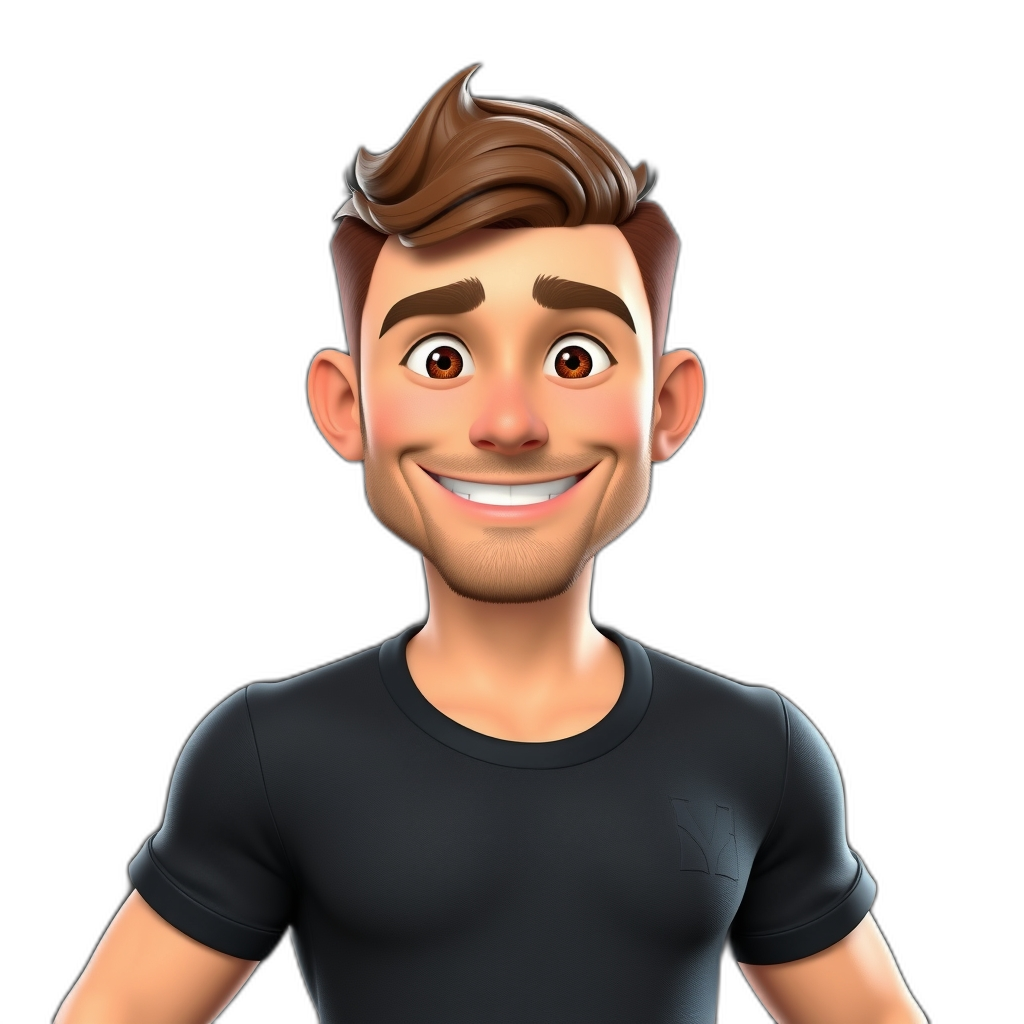
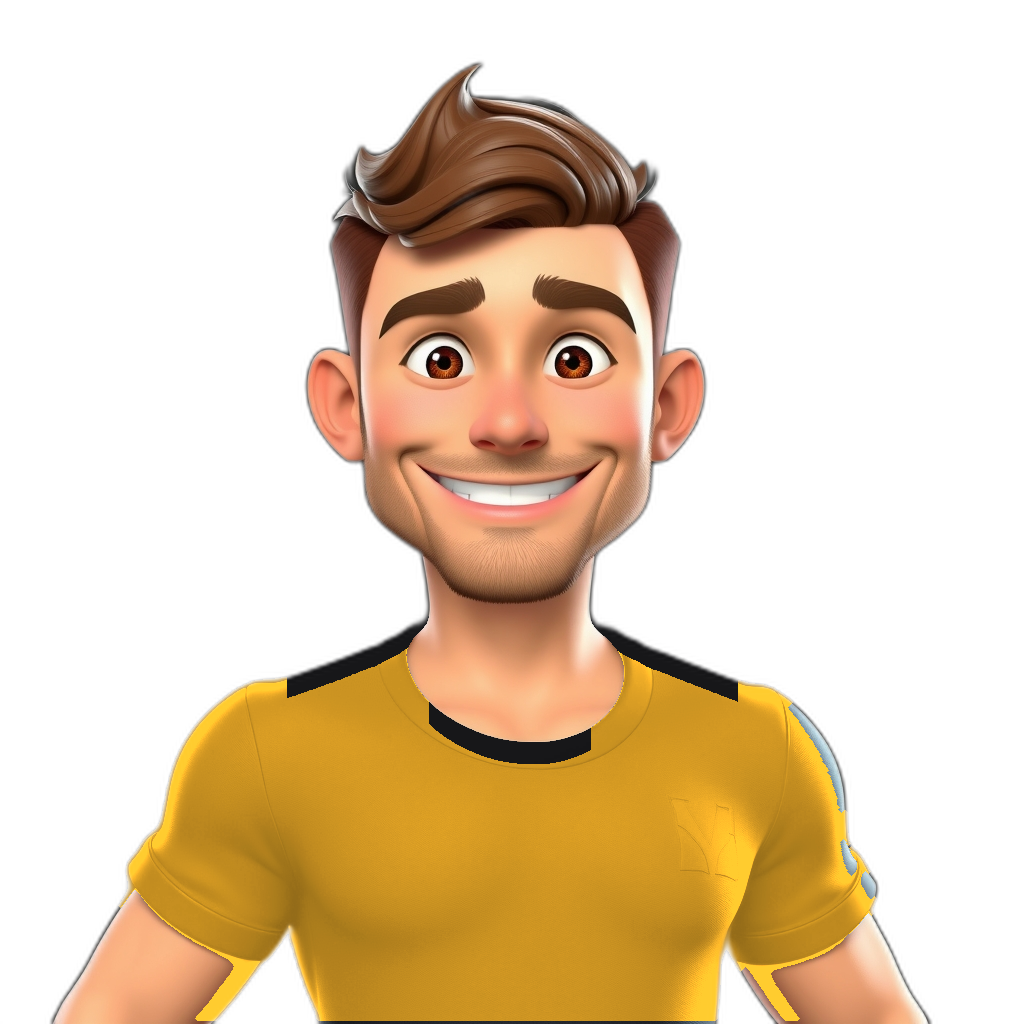
Cambridge: personagens sempre com a camisa do clube (avatares repintados + regra no playbook)
Claude-Session: https://claude.ai/code/session_016hpmpawhQKGKc7a1AfT2Rc

Changed region(s): [[0.125, 0.625, 0.875, 1.0]]

diff --git a/carreira/ep2/curto/make2.py b/carreira/ep2/curto/make2.py
@@ -483,8 +483,8 @@ def scene(img, sh, t):
         B("night"); img.alpha_composite(speedlines(W, H, t, 15))
         av = avatar("gildo", H * X(0.42, 0.72)); paste(img, av, X(cx, W * 0.32), H - av.height / 2 - X(H * 0.15, 0))
         paste(img, icon_pizza(W * X(0.3, 0.14)), X(cx + 250, W * 0.48), X(H * 0.45, cy), 1, 1, -8)
-        pop_text(img, "23:59", X(cx, W * 0.72), X(H * 0.17, 330), t, 0, 140, AMB, 10)
-        if t > wt(sh, "dormindo"): paste(img, chip("Zzz • TREINO ÀS 8H", 50, WHITE, (60, 60, 70)), X(cx, W * 0.72), X(H * 0.27, 520), 1, back((t - wt(sh, "dormindo")) / 0.3))
+        pop_text(img, "23:59", X(cx, W * 0.72), X(H * 0.2, 330), t, 0, 140, AMB, 10)
+        if t > wt(sh, "dormindo"): paste(img, chip("Zzz • TREINO ÀS 8H", 50, WHITE, (60, 60, 70)), X(cx, W * 0.72), X(H * 0.29, 520), 1, back((t - wt(sh, "dormindo")) / 0.3))
     elif sc == "jan_contract":
         B("dark"); p = panel(W * X(0.86, 0.5), 520, (245, 242, 232, 255), 14, (0, 0, 0, 0)); pd = ImageDraw.Draw(p)
         pd.text((50, 50), "CONTRATO PROFISSIONAL", font=font("blk", 52), fill=INK); pd.text((50, 150), "Gildo • 15 anos", font=font("bd", 46), fill=INK)
@@ -600,8 +600,8 @@ def scene(img, sh, t):
         else:
             B("amber"); img.alpha_composite(rays(W, H, cx, cy, t))
             av = avatar("gildo", H * X(0.45, 0.78)); paste(img, av, X(cx, W * 0.32), H - av.height / 2 - X(H * 0.12, 0))
-            paste(img, chip("OBRIGADO, MÃE", X(70, 80), INK, WHITE), X(cx, W * 0.32), X(H * 0.8, H * 0.82), 1, back((t - wt(sh, "obrigado")) / 0.3), rot=-3)
-            pop_text(img, "1º GOL PROFISSIONAL", X(cx, W * 0.7), X(H * 0.2, 300), t, tg, X(66, 80), WHITE, 8)
+            paste(img, chip("OBRIGADO, MÃE", X(70, 80), INK, WHITE), X(cx, W * 0.7), X(H * 0.3, 470), 1, back((t - wt(sh, "obrigado")) / 0.3), rot=-3)
+            pop_text(img, "1º GOL PROFISSIONAL", X(cx, W * 0.7), X(H * 0.21, 300), t, tg, X(66, 80), WHITE, 8)
     elif sc == "lg_kofi":
         B("blue"); card_in(img, "f_kofi", X(cx, W * 0.3), X(cy - 150, cy + 20), X(440, 420), t)
         if t > wt(sh, "titular"): paste(img, chip("TITULAR DO MEIO", 54, INK, AMB), X(cx, W * 0.68), X(H * 0.72, 380), 1, back((t - wt(sh, "titular")) / 0.3), rot=-3)

diff --git a/carreira/ep2/make2.py b/carreira/ep2/make2.py
@@ -483,8 +483,8 @@ def scene(img, sh, t):
         B("night"); img.alpha_composite(speedlines(W, H, t, 15))
         av = avatar("gildo", H * X(0.42, 0.72)); paste(img, av, X(cx, W * 0.32), H - av.height / 2 - X(H * 0.15, 0))
         paste(img, icon_pizza(W * X(0.3, 0.14)), X(cx + 250, W * 0.48), X(H * 0.45, cy), 1, 1, -8)
-        pop_text(img, "23:59", X(cx, W * 0.72), X(H * 0.17, 330), t, 0, 140, AMB, 10)
-        if t > wt(sh, "dormindo"): paste(img, chip("Zzz • TREINO ÀS 8H", 50, WHITE, (60, 60, 70)), X(cx, W * 0.72), X(H * 0.27, 520), 1, back((t - wt(sh, "dormindo")) / 0.3))
+        pop_text(img, "23:59", X(cx, W * 0.72), X(H * 0.2, 330), t, 0, 140, AMB, 10)
+        if t > wt(sh, "dormindo"): paste(img, chip("Zzz • TREINO ÀS 8H", 50, WHITE, (60, 60, 70)), X(cx, W * 0.72), X(H * 0.29, 520), 1, back((t - wt(sh, "dormindo")) / 0.3))
     elif sc == "jan_contract":
         B("dark"); p = panel(W * X(0.86, 0.5), 520, (245, 242, 232, 255), 14, (0, 0, 0, 0)); pd = ImageDraw.Draw(p)
         pd.text((50, 50), "CONTRATO PROFISSIONAL", font=font("blk", 52), fill=INK); pd.text((50, 150), "Gildo • 15 anos", font=font("bd", 46), fill=INK)
@@ -600,8 +600,8 @@ def scene(img, sh, t):
         else:
             B("amber"); img.alpha_composite(rays(W, H, cx, cy, t))
             av = avatar("gildo", H * X(0.45, 0.78)); paste(img, av, X(cx, W * 0.32), H - av.height / 2 - X(H * 0.12, 0))
-            paste(img, chip("OBRIGADO, MÃE", X(70, 80), INK, WHITE), X(cx, W * 0.32), X(H * 0.8, H * 0.82), 1, back((t - wt(sh, "obrigado")) / 0.3), rot=-3)
-            pop_text(img, "1º GOL PROFISSIONAL", X(cx, W * 0.7), X(H * 0.2, 300), t, tg, X(66, 80), WHITE, 8)
+            paste(img, chip("OBRIGADO, MÃE", X(70, 80), INK, WHITE), X(cx, W * 0.7), X(H * 0.3, 470), 1, back((t - wt(sh, "obrigado")) / 0.3), rot=-3)
+            pop_text(img, "1º GOL PROFISSIONAL", X(cx, W * 0.7), X(H * 0.21, 300), t, tg, X(66, 80), WHITE, 8)
     elif sc == "lg_kofi":
         B("blue"); card_in(img, "f_kofi", X(cx, W * 0.3), X(cy - 150, cy + 20), X(440, 420), t)
         if t > wt(sh, "titular"): paste(img, chip("TITULAR DO MEIO", 54, INK, AMB), X(cx, W * 0.68), X(H * 0.72, 380), 1, back((t - wt(sh, "titular")) / 0.3), rot=-3)

diff --git a/carreira/camisa.py b/carreira/camisa.py
@@ -1,0 +1,31 @@
+"""Pinta a camiseta preta de um avatar com a camisa do Cambridge (âmbar com gola preta). Uso: edite N (arquivo: altura relativa do pescoço) e rode."""
+import numpy as np
+from PIL import Image
+from scipy import ndimage
+AMB=np.array([246,178,40],float)
+def recolor(src,dst,neck):
+    im=Image.open(src).convert('RGBA'); a=np.array(im).astype(float); H,W=a.shape[:2]
+    rgb=a[...,:3]; al=a[...,3]
+    face=rgb[int(H*.38):int(H*.48),int(W*.44):int(W*.56)].reshape(-1,3); skin=np.median(face,0)
+    dist=np.sqrt(((rgb-skin)**2).sum(-1))
+    yy=np.arange(H)[:,None]
+    m=(al>40)&(yy>H*neck)&(dist>50)&(rgb.max(-1)<150)
+    m=ndimage.binary_closing(m,iterations=3)&(al>40)&(dist>35)
+    m=ndimage.binary_opening(m,iterations=2)
+    lab,n=ndimage.label(m); sizes=ndimage.sum(m,lab,range(1,n+1)); keep=[i+1 for i,s in enumerate(sizes) if s>W*H*0.003]
+    m=np.isin(lab,keep)
+    L=rgb.max(-1); ref=np.percentile(L[m],95) if m.any() else 1
+    shade=np.clip(0.6+0.55*(L/ref),0.55,1.15)[...,None]
+    top=np.full(W,H)
+    ys,xs=np.nonzero(m)
+    for x in np.unique(xs): top[x]=ys[xs==x].min()
+    band=int(H*0.022); collar=m&(yy<top[None,:]+band)&(np.abs(np.arange(W)[None,:]-W/2)<W*0.22)
+    out=rgb.copy(); body=m&~collar
+    out[body]=(AMB*shade)[body]; out[collar]=np.array([22,22,24])
+    a[...,:3]=np.clip(out,0,255); Image.fromarray(a.astype(np.uint8)).save(dst)
+N={'kofi':.8,'ollie':.75,'theo':.79,'tomas':.66,'arlo':.58,'pai_gildo':.7,'mae_rick':.63}
+for k,n in N.items(): recolor(f'/home/claude/ep1/img/f_{k}.png',f'f_{k}.png',n)
+c=Image.new('RGB',(250*7,250),(90,90,90))
+for i,k in enumerate(N):
+    im=Image.open(f'f_{k}.png'); im.thumbnail((250,250)); c.paste(im,(i*250,0),im)
+c.save('chk.jpg')

diff --git a/PLAYBOOK.md b/PLAYBOOK.md
@@ -105,7 +105,7 @@ Metricool é plano GRÁTIS: só 20 publicações/mês e CADA REDE CONTA (1 víde
 - Estado após Ep.1 (jul–dez 2026): 7º lugar, orçamento £180K, Rick efetivado. Reforços: Tomás Ferreira (ZAG 68, POR, grátis), Theo Okafor (ATA 63, empréstimo). Base: Murrey (MEI 16a, 57 OVR, pot 91), Gildo (PE 15a, 48, pot 89, entregador de pizza, RIT 98), Kofi Mensah-Hart (VOL 16a, 50, pot 79), Ollie Fenwick (ATA 15a, 46, pot 77). Dilema do Ep.1: proposta de £1,2 mi da Premier League pelo Murrey (A vender / B segurar).
 - REGRA DA BASE: 2 revelações importantes por TEMPORADA (cada temporada = 2 episódios). 2026/27: Murrey e Gildo (Kofi e Ollie são secundários). 2027/28 (Ep.3–4): Victor (GOL, trauma de pênalti, 47→86) e Matic (ZAG, família sérvia, 54→85). Secundários novos só se o roteiro pedir.
 - **PEDIR IMAGENS ANTES DO VÍDEO (pedido do usuário 23/11, vale para Cambridge e Lusa):** junto com o roteiro, mande uma LISTA NUMERADA de imagens que deixariam o episódio melhor, ligadas às cenas do roteiro: escudos dos times adversários, fotos dos estádios (ex.: Wembley, Abbey Stadium), fotos de jogadores reais que aparecem, taças/troféus, e o que mais a história pedir (manchete, uniforme). Diga em qual cena cada uma entra. O usuário manda pelo chat (pedir como arquivo/documento, maior qualidade possível). Use as imagens como fundo de cena, carta de jogador, placar com escudo real, tela do troféu etc., sempre com animação (zoom, entrada, recorte com rembg), no mesmo padrão visual. Se ele não mandar alguma, siga com o estilo atual (desenho/cfimg) sem travar. Guarde as recebidas em carreira/<serie>/img/ para reusar. Os avatares dos personagens inventados continuam bonequinho 3D.
-- FLUXO DE CADA EPISÓDIO: votação A/B → roteiro + LISTA DE IMAGENS enviados ao usuário → ajustes e imagens recebidas → "roteiro aprovado" → voz, vídeo e Shorts → rascunhos → "aprovado". Episódio com NO MÍNIMO 8 minutos (~1.700 palavras). Nunca usar fotos reais; avatares estilo bonequinho 3D (carreira/assets/*_ai.png; novos rostos com cfimg.py, camiseta preta lisa, sem logo, recorte com rembg).
+- FLUXO DE CADA EPISÓDIO: votação A/B → roteiro + LISTA DE IMAGENS enviados ao usuário → ajustes e imagens recebidas → "roteiro aprovado" → voz, vídeo e Shorts → rascunhos → "aprovado". Episódio com NO MÍNIMO 8 minutos (~1.700 palavras). Avatares estilo bonequinho 3D (carreira/assets/*_ai.png e carreira/img/f_*.png; novos rostos com cfimg.py, recorte com rembg). **CAMISA (pedido do usuário 23/11): TODOS os personagens aparecem SEMPRE com a camisa do Cambridge (âmbar com gola preta, sem logo), inclusive família e torcedores; nunca camiseta preta.** No prompt do cfimg peça "amber yellow football shirt with black collar, no logo"; se um avatar vier com outra cor, pinte com carreira/camisa.py e confira o resultado. Exceções: goleiro (camisa de goleiro) e o Rick (jaqueta de treino preta com detalhes âmbar do clube). Fotos reais só as que o usuário mandar (ver item abaixo).
 - O que o usuário aprovou (Ep.1 v2): voz Pedro no **elevenlabs:eleven_v3** (Speko, voice ulzsiMeCbfKyTPCNhCD5) com tags [excited] [tense] [sad] [laughs] [whispers]; ~210 palavras/min (voice.py acelera 1.1x e corta pausas > 0.22 s); legenda 1 palavra por vez; etiqueta de assunto no topo; HUD fixo (posição, orçamento, rumo à Champions); troca de cena a cada 1–3 s; telas de jogo animadas (jornal girando, elenco, mercado, cartas abrindo tipo pacote FIFA, tabela, celular, e-mail, A/B); trilha Kevin MacLeod por bloco (CC BY: crédito pequeno na tela final do vídeo, NUNCA na descrição); efeitos em todo corte. Odiou: voz lenta/monótona, imagens de IA paradas, cenas longas.
 - Código: carreira/ep1/v2/ (script2.py roteiro em blocos com cenas; voice.py; words.py com faster-whisper; make2.py cenas 16:9 e 9:16; mix2.py trilha; shorts2.py Shorts nativos verticais com final próprio). Para o Ep.N: copiar a pasta, reescrever script2.py e as cenas novas em make2.py, manter gfx.py.
 - Shorts: SEMPRE nativos na vertical (make2 renderiza 1080x1920) e SEMPRE com final (fala curta + tela com escudo, CTA e INSCREVA-SE). Um dos 4 Shorts é o dilema A/B.
